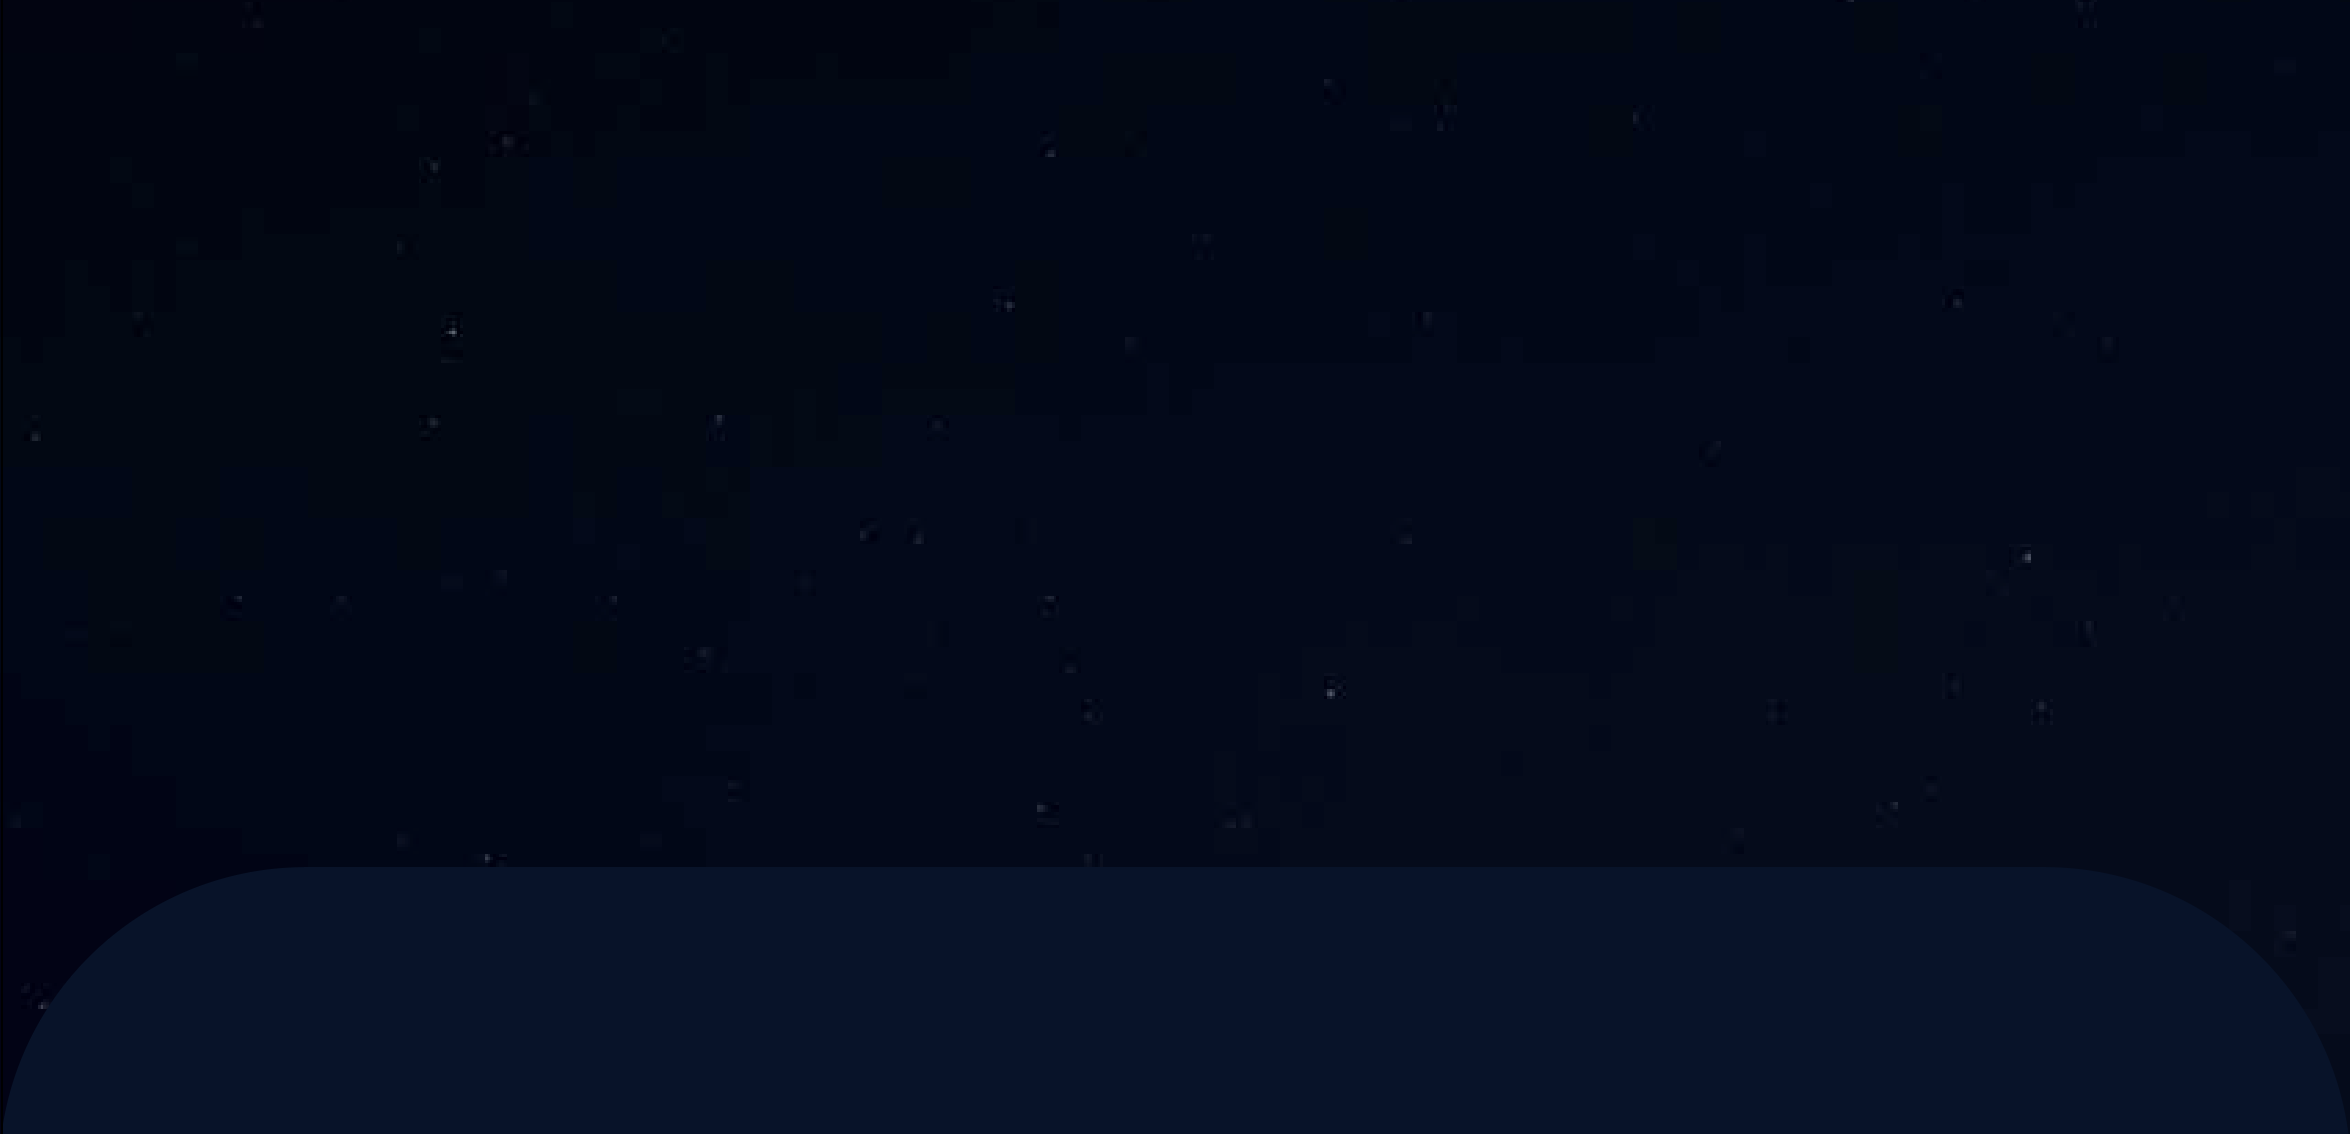
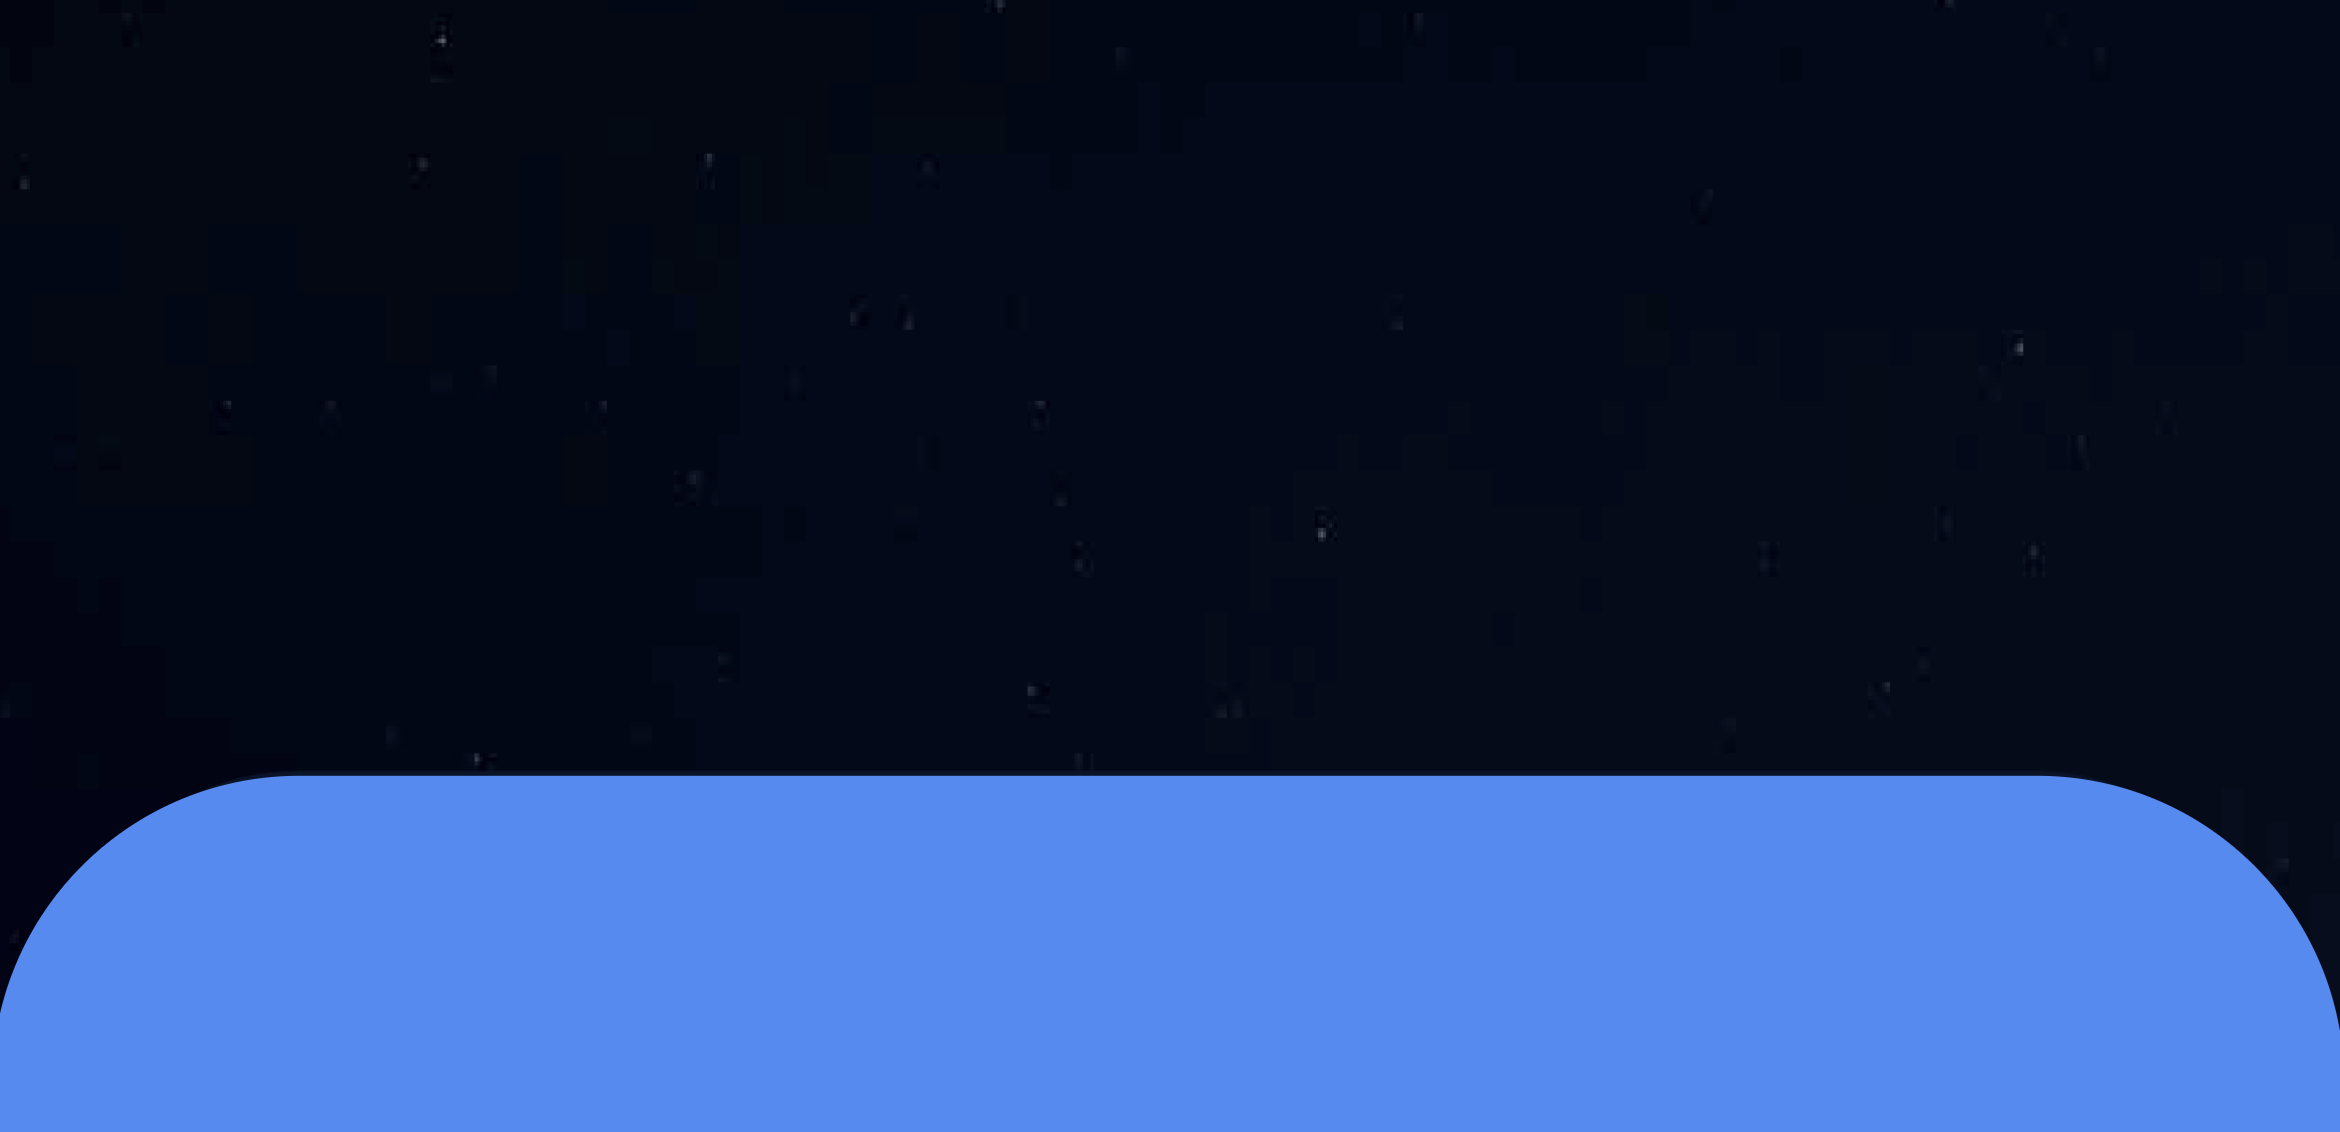
story line 마우스 호버효과 적용
story line 마우스 호버효과 적용

diff --git a/style/style.css b/style/style.css
@@ -55,8 +55,23 @@ section.about > div > img.introduce_back_img{width: 600px; }
 
 
 /* Story Line */
-section.story_line{width: 100%; display: inline-block; background: #05132b;}
-section.story_line > div{padding: 230px 0; width: 100%; height: 100%; display: flex; align-items: center; justify-content: center;}
-section.story_line > div > ol{}
-section.story_line > div > ol > li{color: #fff; text-align: center; font-size: 70px; padding-bottom: 60px;  -webkit-text-stroke: 1px #fff; color: transparent; cursor: pointer;}
+section.story_line{width: 100%; display: inline-block; background: #478af7; position: absolute;}
+section.story_line > div{ position: relative;  padding: 230px 0; width: 100%; height: 100%; display: flex; align-items: center; justify-content: center;}
+section.story_line > div > ol{display: flex; align-items: center; justify-content: center; flex-direction: column;}
+section.story_line > div > ol > li{text-align: center; font-size: 50px; margin-bottom: 60px;  -webkit-text-stroke: 1px #fff; color: transparent; cursor: pointer; display: inline-block; transition: 500ms; z-index: 2;}
+section.story_line > div > ol > li > img{position: absolute; opacity: 0; transition: 500ms; transform: translateY(20%); pointer-events: none;}
 section.story_line > div > ol > li:hover{color: #3ff;}
+section.story_line > div > ol > li:hover > img{ opacity: 1;  transform: translateY(0);}
+section.story_line > div > ol > li.earth_story > img:first-child{width: 20%; top: 20vh; left: 10%;}
+section.story_line > div > ol > li.earth_story > img:last-child{width: 20%; top: 40vh; right: 15%;}
+section.story_line > div > ol > li.miller_story > img:nth-child(1){width: 25%; top: 10vh; left: 5%;}
+section.story_line > div > ol > li.miller_story > img:nth-child(2){width: 20%; top: 30vh; right: 15%;}
+section.story_line > div > ol > li.miller_story > img:nth-child(3){width: 20%; top: 60vh; left: 15%;}
+section.story_line > div > ol > li.mann_story > img:nth-child(1){width: 15%; top: 20vh; left: 15%;}
+section.story_line > div > ol > li.mann_story > img:nth-child(2){width: 10%; top: 10vh; right: 25%;}
+section.story_line > div > ol > li.mann_story > img:nth-child(3){width: 15%; top: 50vh; right: 15%;}
+section.story_line > div > ol > li.fifth_story > img:nth-child(1){width: 20%; top: 40vh; left: 10%;}
+section.story_line > div > ol > li.fifth_story > img:nth-child(2){width: 30%; top: 10vh; right: 5%;}
+section.story_line > div > ol > li.cooper_story > img:nth-child(1){width: 25%; top: 10vh; left: 10%;}
+section.story_line > div > ol > li.cooper_story > img:nth-child(2){width: 30%; top: 40vh; right: 5%;}
+

diff --git a/main.html b/main.html
@@ -76,14 +76,37 @@
             </div>
         </section>
 
+        <!-- Story Line -->
         <section class="story_line">
             <div>
                 <ol>
-                    <li>EARTH</li>
-                    <li>MILLER</li>
-                    <li>MANN</li>
-                    <li>FIFTH DIMENTION</li>
-                    <li>COOPER STATION</li>
+                    <li class="earth_story">
+                        EARTH
+                        <img src="./img/storyLine/earth/earth.png" alt="지구">
+                        <img src="./img/storyLine/earth/earth_2.jpg" alt="지구">
+                    </li>
+                    <li class="miller_story">
+                        MILLER
+                        <img src="./img/storyLine/miller/miller.png" alt="밀러행성">
+                        <img src="./img/storyLine/miller/miller2.png" alt="밀러행성">
+                        <img src="./img/storyLine/miller/miller3.png" alt="밀러행성">
+                    </li>
+                    <li class="mann_story">
+                        MANN
+                        <img src="./img/storyLine/mann/mann.png" alt="만행성">
+                        <img src="./img/storyLine/mann/mann_2.png" alt="만행성">
+                        <img src="./img/storyLine/mann/mann_3.png" alt="만행성">
+                    </li>
+                    <li class="fifth_story">
+                        FIFTH DIMENTION
+                        <img src="./img/storyLine/fifth/fifth.jpg" alt="오차원">
+                        <img src="./img/storyLine/fifth/fifth_2.png" alt="오차원">
+                    </li>
+                    <li class="cooper_story">
+                        COOPER STATION
+                        <img src="./img/storyLine/cooper/cooper.png" alt="쿠퍼역">
+                        <img src="./img/storyLine/cooper/cooper_2.png" alt="쿠퍼역">
+                    </li>
                 </ol>
             </div>
         </section>
